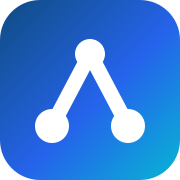
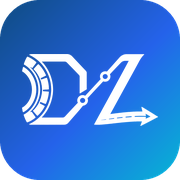
feat(brand): adopt the new DriveLink DL mark across the site
Replaces the placeholder mesh-node glyph with the new "DL" monogram
everywhere it appears: favicon, app icons, nav, footer, chatbot, and the
Open Graph card.

Icon tiles keep the existing brand gradient with the mark knocked out in
white. At 16/32px the mark's hairline strokes wash out during downscale,
so those sizes render from a dilated silhouette with tighter padding to
stay legible in a browser tab.

LogoMark is now asset-backed with tile/white/color variants instead of an
inline SVG. Call sites drop their own gradient tiles — the tile is baked
into the asset, so the wide mark is no longer crushed into a square. It
renders a plain <img> because next.config.js sets output: 'export', which
ships no /_next/image endpoint for <Image> to hit.

diff --git a/src/components/ui/Logo.tsx b/src/components/ui/Logo.tsx
@@ -1,33 +1,45 @@
 interface LogoMarkProps {
+  /** Rendered size in px. For `tile` this is the square edge; otherwise it is the height. */
   size?: number;
+  /**
+   * `tile`  — the app-icon lockup (mark on the brand gradient tile), matching the favicon.
+   * `white` — the mark knocked out in white, for dark or brand-colored surfaces.
+   * `color` — the full-color mark, for light surfaces.
+   */
+  variant?: 'tile' | 'white' | 'color';
   className?: string;
+  style?: React.CSSProperties;
 }
 
+// Source mark is 1206 x 646.
+const ASPECT = 1206 / 646;
+
+const SRC: Record<NonNullable<LogoMarkProps['variant']>, string> = {
+  tile: '/logo-tile.png',
+  white: '/logo-white.png',
+  color: '/logo.png',
+};
+
 /**
- * DriveLink mark — two vehicle nodes (on a faint "road") linking up through a
- * mesh node above them: the V2V / decentralized-backbone idea in one glyph.
- * Uses currentColor so it inherits the badge's color (white on the gradient tile).
+ * DriveLink mark — the "DL" monogram built from a wheel/tread arc and a road
+ * that resolves into a forward arrow, linked by two V2V mesh nodes.
+ *
+ * next.config.js sets `output: 'export'`, so this uses a plain <img>: a static
+ * export ships no /_next/image endpoint for <Image> to hit.
  */
-export function LogoMark({ size = 20, className }: LogoMarkProps) {
+export function LogoMark({ size = 20, variant = 'tile', className, style }: LogoMarkProps) {
+  const width = variant === 'tile' ? size : Math.round(size * ASPECT);
+
   return (
-    <svg
-      width={size}
+    <img
+      src={SRC[variant]}
+      width={width}
       height={size}
-      viewBox="0 0 24 24"
-      fill="none"
       className={className}
+      style={{ display: 'block', ...style }}
+      alt=""
       aria-hidden="true"
-      focusable="false"
-    >
-      {/* road */}
-      <line x1="6" y1="16.5" x2="18" y2="16.5" stroke="currentColor" strokeWidth="1.6" strokeLinecap="round" opacity="0.45" />
-      {/* V2V links up to the mesh node */}
-      <path d="M6 16.5 L12 7 L18 16.5" stroke="currentColor" strokeWidth="2.2" strokeLinecap="round" strokeLinejoin="round" />
-      {/* mesh node */}
-      <circle cx="12" cy="7" r="2.2" fill="currentColor" />
-      {/* vehicle nodes */}
-      <circle cx="6" cy="16.5" r="2.7" fill="currentColor" />
-      <circle cx="18" cy="16.5" r="2.7" fill="currentColor" />
-    </svg>
+      draggable={false}
+    />
   );
 }

diff --git a/src/app/globals.css b/src/app/globals.css
@@ -163,14 +163,12 @@ h1, h2, h3, h4 { margin: 0; color: var(--fg1); }
 }
 .dlw-nav-inner { display: flex; align-items: center; justify-content: space-between; gap: 32px; }
 .dlw-brand { display: flex; align-items: center; gap: 10px; background: none; border: none; padding: 0; }
+/* The gradient tile and rounded corners are baked into the logo asset itself,
+   so this only sizes it and keeps the brand shadow. */
 .dlw-brand-mark {
   width: 36px; height: 36px; border-radius: 10px;
-  background: linear-gradient(135deg, #0F4C81, #2563EB 55%, #06B6D4);
-  display: flex; align-items: center; justify-content: center;
-  color: #fff; box-shadow: 0 6px 16px -4px rgba(15,76,129,0.4);
-  position: relative; overflow: hidden;
+  box-shadow: 0 6px 16px -4px rgba(15,76,129,0.4);
 }
-.dlw-brand-mark::after { content: ""; position: absolute; inset: 0; background: linear-gradient(180deg, rgba(255,255,255,0.18), transparent 40%); }
 .dlw-brand-wm { background: linear-gradient(90deg, #0F4C81, #1E3A8A); -webkit-background-clip: text; background-clip: text; color: transparent; font-weight: 700; font-size: 20px; letter-spacing: -0.025em; }
 .dlw-nav-center { display: flex; align-items: center; gap: 4px; }
 .dlw-nav-tab { padding: 8px 14px; border-radius: 999px; color: var(--fg2); font-weight: 500; font-size: 14px; transition: color .2s, background .2s; background: transparent; border: none; }

diff --git a/src/components/Chatbot.tsx b/src/components/Chatbot.tsx
@@ -270,7 +270,7 @@ export function Chatbot() {
                 transition={{ duration: 0.2 }}
                 className="flex items-center justify-center"
               >
-                <LogoMark size={24} />
+                <LogoMark size={17} variant="white" />
               </motion.div>
             )}
           </AnimatePresence>
@@ -310,9 +310,7 @@ export function Chatbot() {
             {/* Header */}
             <div className="relative z-10 px-5 py-4 border-b border-zinc-100 flex items-center justify-between bg-gradient-to-r from-zinc-50 to-transparent">
               <div className="flex items-center gap-3">
-                <div className="w-9 h-9 rounded-lg bg-gradient-to-br from-[#0F4C81] to-[#2563EB] flex items-center justify-center text-white shadow-md">
-                  <LogoMark size={18} />
-                </div>
+                <LogoMark size={36} className="rounded-lg shadow-md" />
                 <div>
                   <h4 className="text-sm font-semibold tracking-tight text-zinc-800">DriveLink Assistant</h4>
                   <div className="flex items-center gap-1.5 mt-0.5">

diff --git a/src/components/layout/Footer.tsx b/src/components/layout/Footer.tsx
@@ -11,9 +11,7 @@ export function Footer() {
         <div className="dlw-footer-grid">
           <div>
             <div style={{ display: 'flex', alignItems: 'center', gap: 10, marginBottom: 14 }}>
-              <span style={{ width: 28, height: 28, borderRadius: 8, background: 'linear-gradient(135deg, #0F4C81, #2563EB 55%, #06B6D4)', display: 'inline-flex', alignItems: 'center', justifyContent: 'center', color: '#fff' }}>
-                <LogoMark size={16} />
-              </span>
+              <LogoMark size={28} style={{ borderRadius: 8 }} />
               <span style={{ fontWeight: 700, color: '#fff', letterSpacing: '-0.02em' }}>DriveLink</span>
             </div>
             <p style={{ fontSize: 13, color: 'rgba(255,255,255,0.5)', lineHeight: 1.6, margin: 0, maxWidth: 280 }}>

diff --git a/src/components/Nav.tsx b/src/components/Nav.tsx
@@ -37,9 +37,7 @@ export function Nav() {
       <nav className={'dlw-nav ' + (scrolled ? 'is-scrolled' : '')}>
         <div className="dlw-container dlw-nav-inner">
           <Link className="dlw-brand" href={siteBase + hrefFor('home')}>
-            <span className="dlw-brand-mark">
-              <LogoMark size={20} />
-            </span>
+            <LogoMark size={36} className="dlw-brand-mark" />
             <span className="dlw-brand-wm">DriveLink</span>
           </Link>
 
